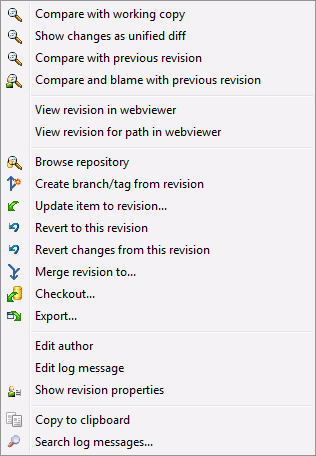
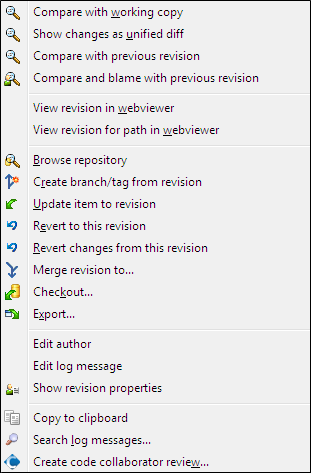
Doc updates for code collaborator functionality
git-svn-id: https://svn.code.sf.net/p/tortoisesvn/code/trunk@24348 154be670-7969-47af-9ab0-c6fb378d2295

Changed region(s): [[0.0, 0.0, 1.0, 1.0]]

diff --git a/www/tsvn_1.8_releasenotes.html b/www/tsvn_1.8_releasenotes.html
@@ -1,4 +1,4 @@
-<!DOCTYPE html PUBLIC "-//W3C//DTD XHTML 1.0 Strict//EN" "http://www.w3.org/TR/xhtml1/DTD/xhtml1-strict.dtd">
+<!DOCTYPE html PUBLIC "-//W3C//DTD XHTML 1.0 Strict//EN" "http://www.w3.org/TR/xhtml1/DTD/xhtml1-strict.dtd">
 <html xmlns="http://www.w3.org/1999/xhtml" lang="en" xml:lang="en">
 <head>
 <title>TortoiseSVN - Release notes for 1.8</title>
@@ -312,6 +312,10 @@
                 <h2>Log Dialog</h2>
 
                 <h3>Log Dialog enhancements to help with code reviews</h3>
+                <p>
+                    A new context menu &#39;Create code collaborator review&#39; has been added to 
+                    provide interoperability with the SmartBear Code Collaborator review tool.
+                </p>
                 <p>
                     Two new context menus and commands have been added to the log dialog when
                     multiple files are selected in the bottom 'files changed' listbox.
